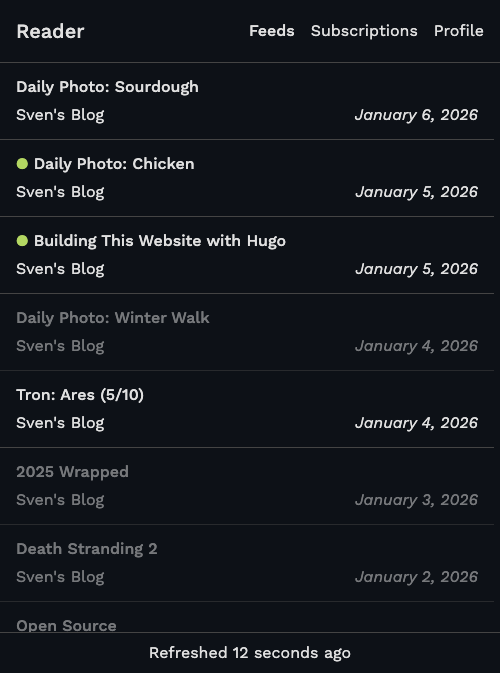
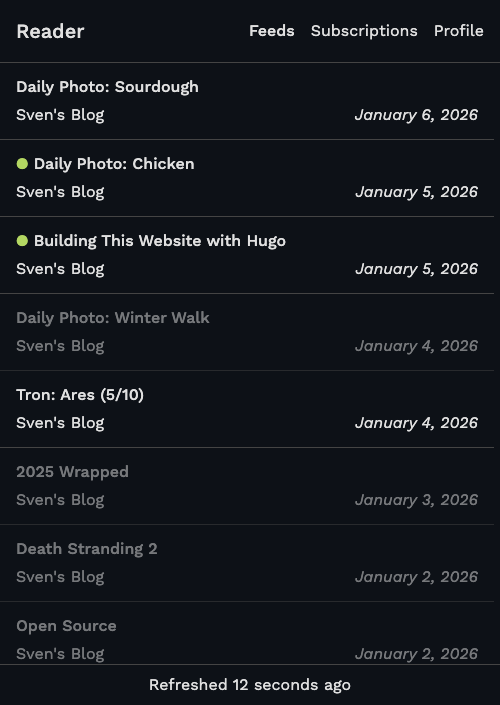
Use iPhone 14 portrait viewport for mobile screenshots

diff --git a/src/Command/CaptureScreenshotsCommand.php b/src/Command/CaptureScreenshotsCommand.php
@@ -45,6 +45,8 @@ class CaptureScreenshotsCommand extends Command
     private const SCREENSHOT_DIR = "docs/screenshots";
     private const VIEWPORT_WIDTH = 1280;
     private const VIEWPORT_HEIGHT = 1024;
+    private const MOBILE_VIEWPORT_WIDTH = 390;
+    private const MOBILE_VIEWPORT_HEIGHT = 844;
 
     private const TEST_FEEDS = [
         [
@@ -269,12 +271,17 @@ class CaptureScreenshotsCommand extends Command
             $this->takeScreenshot("profile");
             $io->success("profile.png");
 
-            // Capture mobile screenshots
+            // Capture mobile screenshots (iPhone 14 portrait)
             $io->section("Capturing Mobile Feed List");
             $this->driver
                 ->manage()
                 ->window()
-                ->setSize(new \Facebook\WebDriver\WebDriverDimension(375, 812));
+                ->setSize(
+                    new \Facebook\WebDriver\WebDriverDimension(
+                        self::MOBILE_VIEWPORT_WIDTH,
+                        self::MOBILE_VIEWPORT_HEIGHT,
+                    ),
+                );
 
             // Navigate directly to Sven's Blog subscription URL
             $svensGuid = $this->feedFetcher->createGuid(
